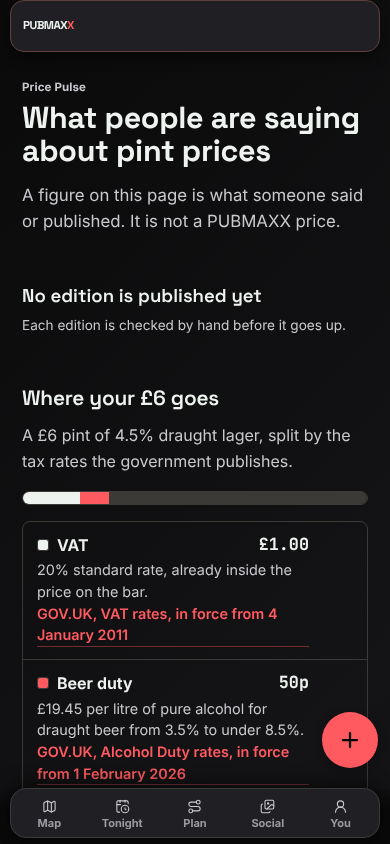
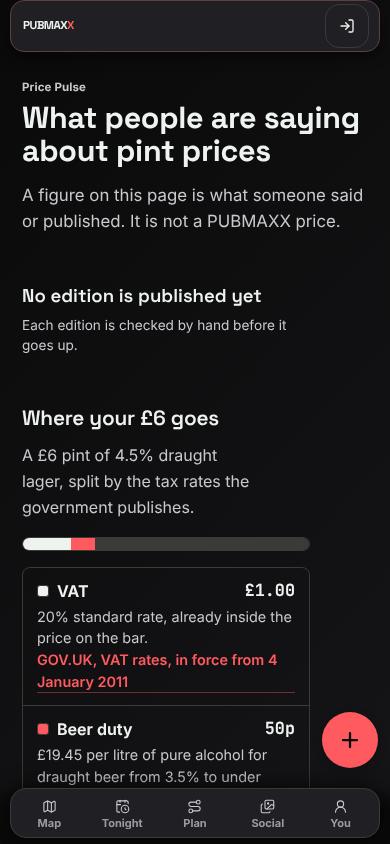
fix(price-pulse): reserve the create action's lane for the whole reading column
The first pass padded the split rows and edition cards only. Run with the
spec widened to every line in <main>, main still put twelve lines under the
control: the explainer's lede, the duty row's 'in force from 1 February
2026' source date, and both voices in the views. Every line below the page
head is a figure, a source or a date, so every section below it now
reserves the lane (less the page gutter); the head stays full width, as it
never scrolls down to the control.

The spec now checks every text node in <main> at 320, 390 and 430.

diff --git a/e2e/price-pulse-create-action.spec.ts b/e2e/price-pulse-create-action.spec.ts
@@ -2,9 +2,9 @@ import { expect, test } from "@playwright/test";
 
 // /price-pulse names a source and a date under every figure. On a phone the
 // floating create action sits over the reading column's bottom-right corner,
-// and at rest it covered the duty row's GOV.UK line and its date. Each split
-// row is brought to the foot of the screen, where the action sits, and no line
-// of its text may run under the action's box.
+// and at rest it covered the duty row's GOV.UK line and its date. Every block
+// of text on the page is brought to the foot of the screen, where the action
+// sits, and no line of it may run under the action's box.
 const VIEWPORTS = [
   { width: 320, height: 640 },
   { width: 390, height: 844 },
@@ -31,16 +31,20 @@ for (const viewport of VIEWPORTS) {
       const fab = document.querySelector(".createFab");
       if (!fab) return ["no create action"];
       const hits: string[] = [];
-      for (const row of document.querySelectorAll<HTMLElement>(".pulseSplitRow, .pulseItem")) {
-        row.scrollIntoView({ block: "end", behavior: "instant" });
+      const blocks = [...document.querySelectorAll<HTMLElement>("main *")].filter(
+        (el) => el.getClientRects().length > 0 && [...el.childNodes].some(
+          (node) => node.nodeType === Node.TEXT_NODE && node.textContent?.trim(),
+        ),
+      );
+      for (const block of blocks) {
+        block.scrollIntoView({ block: "end", behavior: "instant" });
         const box = fab.getBoundingClientRect();
-        const walker = document.createTreeWalker(row, NodeFilter.SHOW_TEXT);
-        while (walker.nextNode()) {
-          const node = walker.currentNode;
-          if (!node.textContent?.trim()) continue;
+        for (const node of block.childNodes) {
+          if (node.nodeType !== Node.TEXT_NODE || !node.textContent?.trim()) continue;
           const range = document.createRange();
           range.selectNodeContents(node);
-          if ([...range.getClientRects()].some((rect) =>
+          // A visually hidden label is a 1px box nobody reads.
+          if ([...range.getClientRects()].some((rect) => rect.width > 1 &&
             rect.left < box.right && rect.right > box.left &&
             rect.top < box.bottom && rect.bottom > box.top,
           )) hits.push(node.textContent.trim());

diff --git a/app/price-pulse/price-pulse.css b/app/price-pulse/price-pulse.css
@@ -234,16 +234,14 @@
 
 /* ── The floating create action ─────────────────────────────── */
 /* On a phone the + sits over the reading column's bottom-right corner, and
-   at rest it covered the duty row's GOV.UK source line and its date. The
-   split rows and the edition cards are the lists here, so they reserve the
-   control's lane less the page gutter, the shape /tonight's rows take, and
-   hold it whenever the control is in the document. */
+   every line below the page head passes under it while it scrolls. Each one
+   is a figure, a source or the day it was published (at rest it covered the
+   duty row's GOV.UK source and its date), so the reading column reserves the
+   control's lane, less the page gutter it already sits in, whenever the
+   control is in the document. The page head stays full width: it opens the
+   page and never scrolls down to the control. */
 @media (max-width: 640px) {
-  body:has(.createFabRoot):not(:has(.pageHidesCreateFab)) .pulseSplitRow {
-    padding-right: max(14px, calc(var(--create-fab-lane) - var(--page-gutter)));
-  }
-
-  body:has(.createFabRoot):not(:has(.pageHidesCreateFab)) .pulseItem {
-    padding-right: max(16px, calc(var(--create-fab-lane) - var(--page-gutter)));
+  body:has(.createFabRoot):not(:has(.pageHidesCreateFab)) .pricePulsePage > :not(.legalHead) {
+    padding-right: max(0px, calc(var(--create-fab-lane) - var(--page-gutter)));
   }
 }
